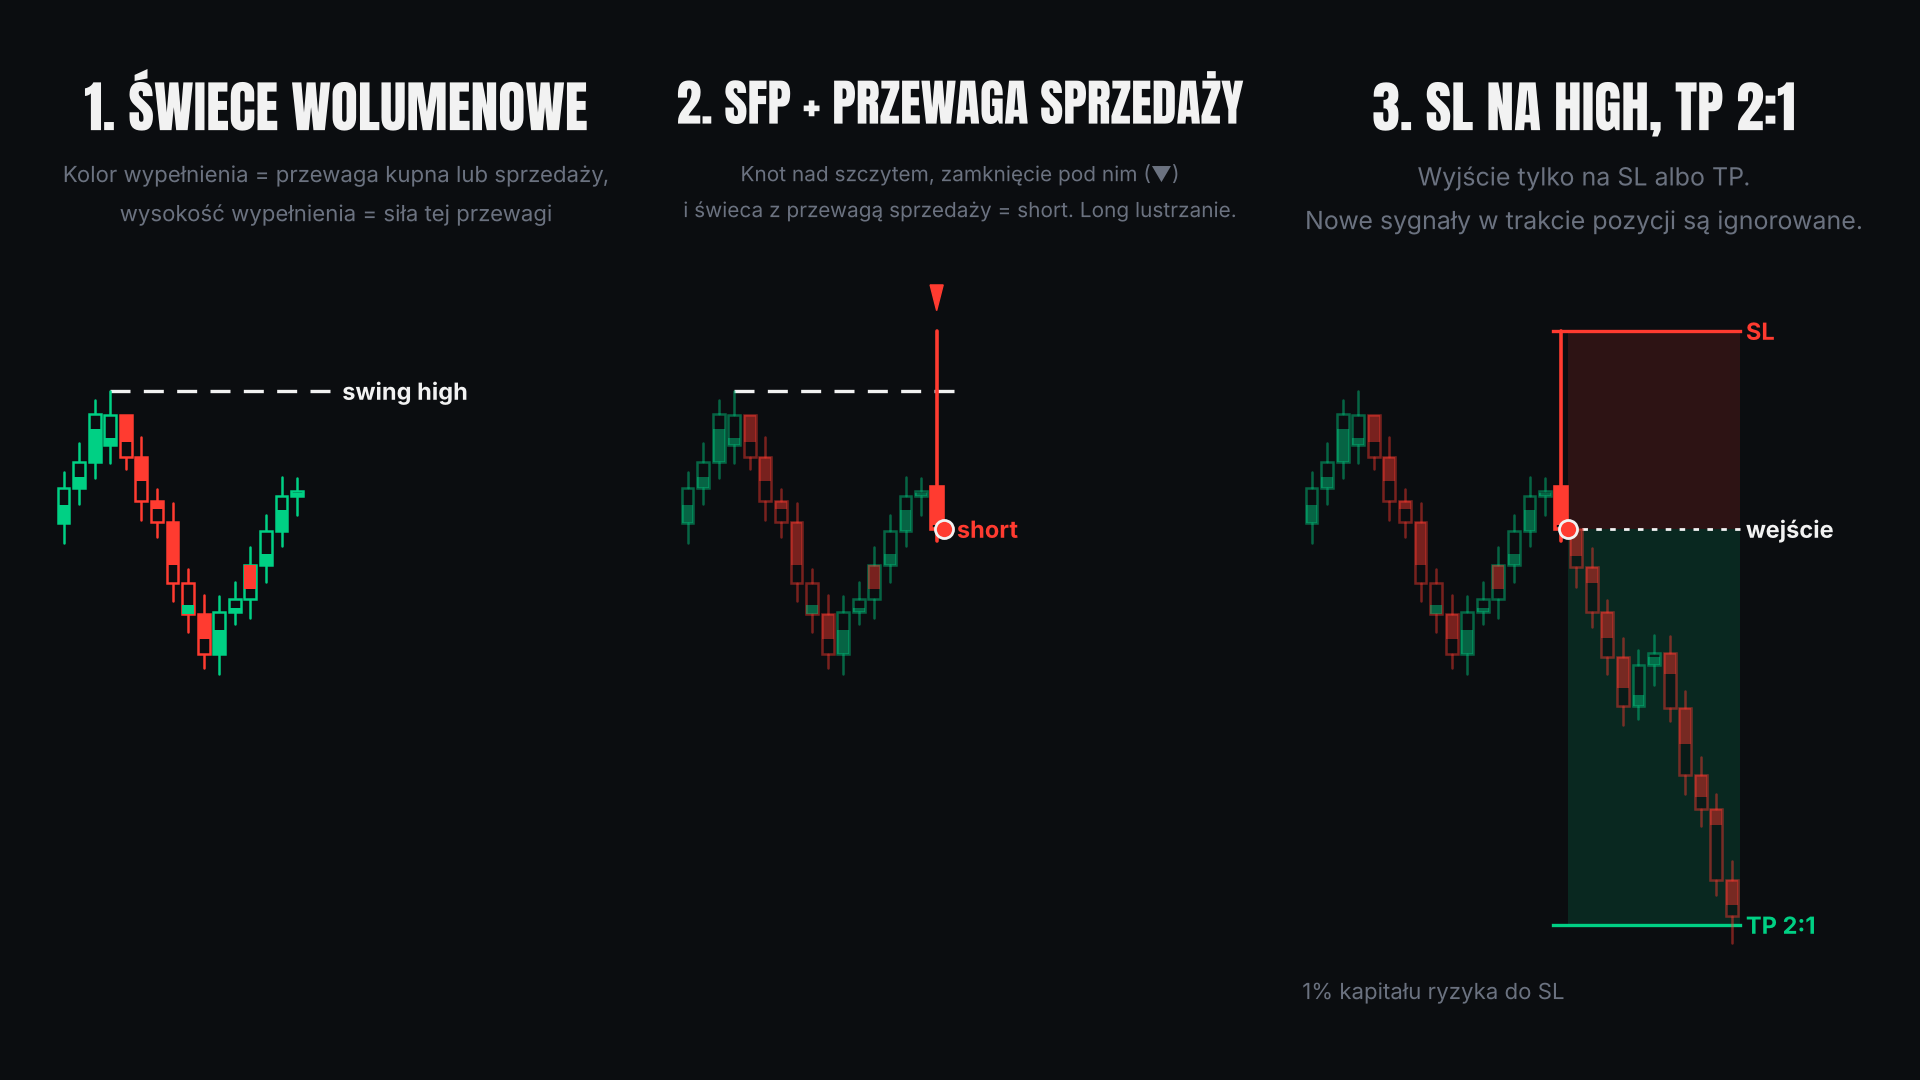
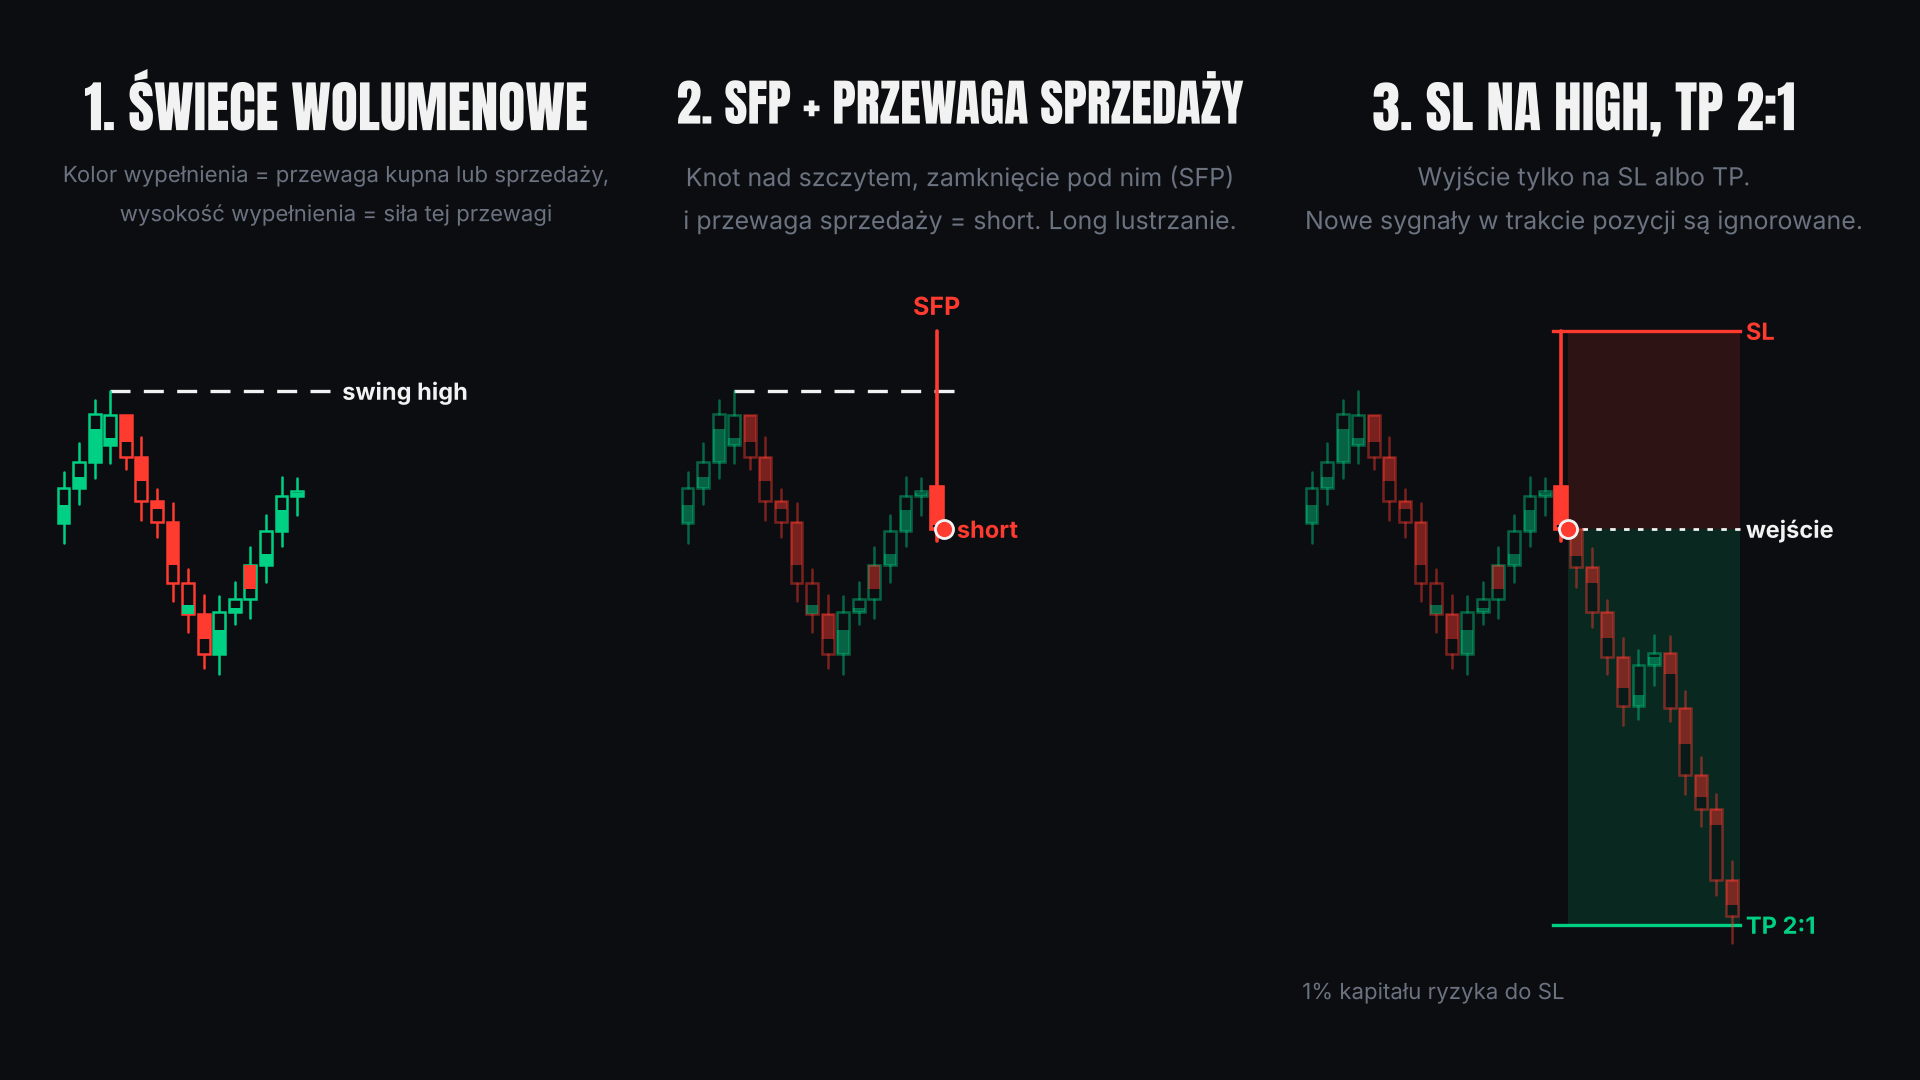
SFP+Volume: wejście na samej świecy SFP ze zgodną deltą, bez linii potwierdzenia
Reguła autora: SFP + zgodne wypełnienie świecy = wejście. Usunięte
wejście na ▼/▲ (potwierdzenie LuxAlgo) oraz linie potwierdzenia
i ▼/▲ z wykresów. Plansza i rozpiski dopasowane.

Claude-Session: https://claude.ai/code/session_01DmSsWAcwqi9Tfm7cmF7APZ

Changed region(s): [[0.3438, 0.1528, 0.6562, 0.2139], [0.4688, 0.275, 0.5, 0.3056]]

diff --git a/nagrania/TikTok/rozpiska_strategii.html b/nagrania/TikTok/rozpiska_strategii.html
@@ -69,7 +69,7 @@ footer{color:var(--mut);font-size:12.5px;border-top:1px solid var(--line);paddin
 <figure class="fig"><svg viewBox="0 0 570 272" role="img" aria-label="Przecięcie EMA 30 i 74 z SL na dołku" font-family="Inter, system-ui, sans-serif"><rect x="14" y="10" width="478" height="230" fill="#0F1216" stroke="#1A1E24"/><polyline points="19.1,49.0 29.3,51.2 39.4,54.4 49.6,57.4 59.8,62.2 69.9,67.6 80.1,72.5 90.3,79.1 100.4,86.0 110.6,92.2 120.8,100.0 131.0,107.9 141.1,115.0 151.3,123.5 161.5,132.1 171.6,139.8 181.8,148.2 192.0,153.1 202.1,157.2 212.3,159.5 222.5,159.2 232.7,158.6 242.8,156.8 253.0,152.9 263.2,149.3 273.3,144.7 283.5,138.5 293.7,132.7 303.9,126.4 314.0,118.5 324.2,111.3 334.4,104.2 344.5,97.9 354.7,94.2 364.9,90.8 375.0,89.6 385.2,88.5 395.4,89.2 405.6,89.8 415.7,92.1 425.9,94.0 436.1,97.4 446.2,100.3 456.4,104.6 466.6,108.2 476.7,113.2 486.9,117.5" fill="none" stroke="#7AA2F7" stroke-width="2" stroke-linejoin="round"/><polyline points="19.1,49.0 29.3,54.1 39.4,60.6 49.6,65.5 59.8,74.3 69.9,83.2 80.1,90.0 90.3,100.0 100.4,109.9 110.6,117.3 120.8,127.8 131.0,138.0 141.1,145.6 151.3,156.3 161.5,166.6 171.6,174.3 181.8,183.6 192.0,184.8 202.1,185.1 212.3,182.4 222.5,175.1 232.7,169.3 242.8,162.1 253.0,151.7 263.2,143.7 273.3,134.9 283.5,123.4 293.7,114.5 303.9,105.2 314.0,93.3 324.2,84.1 334.4,75.7 344.5,69.4 354.7,69.0 364.9,68.4 375.0,72.1 385.2,74.5 395.4,80.2 405.6,84.1 415.7,90.9 425.9,95.6 436.1,102.9 446.2,108.0 456.4,115.6 466.6,120.8 476.7,128.6 486.9,133.9" fill="none" stroke="#F5C451" stroke-width="2" stroke-linejoin="round"/><line x1="19.1" x2="19.1" y1="45.6" y2="54.5" stroke="#00D084" stroke-width="1.2"/><rect x="16.1" y="49.0" width="5.9" height="1.2" fill="#00D084"/><line x1="29.3" x2="29.3" y1="43.4" y2="70.6" stroke="#FF3B30" stroke-width="1.2"/><rect x="26.3" y="49.0" width="5.9" height="18.2" fill="#FF3B30"/><line x1="39.4" x2="39.4" y1="63.6" y2="81.7" stroke="#FF3B30" stroke-width="1.2"/><rect x="36.5" y="67.1" width="5.9" height="9.6" fill="#FF3B30"/><line x1="49.6" x2="49.6" y1="71.5" y2="82.4" stroke="#FF3B30" stroke-width="1.2"/><rect x="46.6" y="76.8" width="5.9" height="1.2" fill="#FF3B30"/><line x1="59.8" x2="59.8" y1="74.0" y2="99.9" stroke="#FF3B30" stroke-width="1.2"/><rect x="56.8" y="77.9" width="5.9" height="18.2" fill="#FF3B30"/><line x1="69.9" x2="69.9" y1="91.3" y2="111.2" stroke="#FF3B30" stroke-width="1.2"/><rect x="67.0" y="96.1" width="5.9" height="9.6" fill="#FF3B30"/><line x1="80.1" x2="80.1" y1="101.3" y2="110.2" stroke="#FF3B30" stroke-width="1.2"/><rect x="77.2" y="105.7" width="5.9" height="1.2" fill="#FF3B30"/><line x1="90.3" x2="90.3" y1="102.6" y2="130.3" stroke="#FF3B30" stroke-width="1.2"/><rect x="87.3" y="106.8" width="5.9" height="18.2" fill="#FF3B30"/><line x1="100.4" x2="100.4" y1="120.0" y2="138.7" stroke="#FF3B30" stroke-width="1.2"/><rect x="97.5" y="125.0" width="5.9" height="9.6" fill="#FF3B30"/><line x1="110.6" x2="110.6" y1="131.0" y2="140.0" stroke="#FF3B30" stroke-width="1.2"/><rect x="107.7" y="134.6" width="5.9" height="1.2" fill="#FF3B30"/><line x1="120.8" x2="120.8" y1="130.4" y2="159.1" stroke="#FF3B30" stroke-width="1.2"/><rect x="117.8" y="135.8" width="5.9" height="18.2" fill="#FF3B30"/><line x1="131.0" x2="131.0" y1="150.5" y2="167.0" stroke="#FF3B30" stroke-width="1.2"/><rect x="128.0" y="153.9" width="5.9" height="9.6" fill="#FF3B30"/><line x1="141.1" x2="141.1" y1="158.0" y2="170.2" stroke="#FF3B30" stroke-width="1.2"/><rect x="138.2" y="163.6" width="5.9" height="1.2" fill="#FF3B30"/><line x1="151.3" x2="151.3" y1="161.3" y2="186.5" stroke="#FF3B30" stroke-width="1.2"/><rect x="148.3" y="164.7" width="5.9" height="18.2" fill="#FF3B30"/><line x1="161.5" x2="161.5" y1="177.4" y2="197.3" stroke="#FF3B30" stroke-width="1.2"/><rect x="158.5" y="182.9" width="5.9" height="9.6" fill="#FF3B30"/><line x1="171.6" x2="171.6" y1="188.9" y2="198.4" stroke="#FF3B30" stroke-width="1.2"/><rect x="168.7" y="192.5" width="5.9" height="1.2" fill="#FF3B30"/><line x1="181.8" x2="181.8" y1="188.6" y2="210.3" stroke="#FF3B30" stroke-width="1.2"/><rect x="178.9" y="193.6" width="5.9" height="13.0" fill="#FF3B30"/><line x1="192.0" x2="192.0" y1="184.0" y2="212.2" stroke="#00D084" stroke-width="1.2"/><rect x="189.0" y="188.1" width="5.9" height="18.5" fill="#00D084"/><line x1="202.1" x2="202.1" y1="181.3" y2="191.5" stroke="#00D084" stroke-width="1.2"/><rect x="199.2" y="185.8" width="5.9" height="2.2" fill="#00D084"/><line x1="212.3" x2="212.3" y1="170.8" y2="191.0" stroke="#00D084" stroke-width="1.2"/><rect x="209.4" y="175.5" width="5.9" height="10.4" fill="#00D084"/><line x1="222.5" x2="222.5" y1="152.9" y2="179.7" stroke="#00D084" stroke-width="1.2"/><rect x="219.5" y="156.9" width="5.9" height="18.5" fill="#00D084"/><line x1="232.7" x2="232.7" y1="149.5" y2="160.9" stroke="#00D084" stroke-width="1.2"/><rect x="229.7" y="154.7" width="5.9" height="2.2" fill="#00D084"/><line x1="242.8" x2="242.8" y1="140.8" y2="160.0" stroke="#00D084" stroke-width="1.2"/><rect x="239.9" y="144.3" width="5.9" height="10.4" fill="#00D084"/><line x1="253.0" x2="253.0" y1="120.2" y2="147.6" stroke="#00D084" stroke-width="1.2"/><rect x="250.1" y="125.7" width="5.9" height="18.5" fill="#00D084"/><line x1="263.2" x2="263.2" y1="120.2" y2="131.2" stroke="#00D084" stroke-width="1.2"/><rect x="260.2" y="123.5" width="5.9" height="2.2" fill="#00D084"/><line x1="273.3" x2="273.3" y1="107.6" y2="127.3" stroke="#00D084" stroke-width="1.2"/><rect x="270.4" y="113.1" width="5.9" height="10.4" fill="#00D084"/><line x1="283.5" x2="283.5" y1="91.1" y2="117.6" stroke="#00D084" stroke-width="1.2"/><rect x="280.6" y="94.6" width="5.9" height="18.5" fill="#00D084"/><line x1="293.7" x2="293.7" y1="87.0" y2="99.6" stroke="#00D084" stroke-width="1.2"/><rect x="290.7" y="92.4" width="5.9" height="2.2" fill="#00D084"/><line x1="303.9" x2="303.9" y1="78.2" y2="95.9" stroke="#00D084" stroke-width="1.2"/><rect x="300.9" y="82.0" width="5.9" height="10.4" fill="#00D084"/><line x1="314.0" x2="314.0" y1="58.6" y2="87.5" stroke="#00D084" stroke-width="1.2"/><rect x="311.1" y="63.4" width="5.9" height="18.5" fill="#00D084"/><line x1="324.2" x2="324.2" y1="56.9" y2="66.9" stroke="#00D084" stroke-width="1.2"/><rect x="321.2" y="61.2" width="5.9" height="2.2" fill="#00D084"/><line x1="334.4" x2="334.4" y1="50.2" y2="66.2" stroke="#00D084" stroke-width="1.2"/><rect x="331.4" y="54.5" width="5.9" height="6.7" fill="#00D084"/><line x1="344.5" x2="344.5" y1="48.9" y2="59.0" stroke="#00D084" stroke-width="1.2"/><rect x="341.6" y="53.8" width="5.9" height="1.2" fill="#00D084"/><line x1="354.7" x2="354.7" y1="50.0" y2="71.7" stroke="#FF3B30" stroke-width="1.2"/><rect x="351.8" y="53.8" width="5.9" height="14.1" fill="#FF3B30"/><line x1="364.9" x2="364.9" y1="61.8" y2="73.3" stroke="#00D084" stroke-width="1.2"/><rect x="361.9" y="67.1" width="5.9" height="1.2" fill="#00D084"/><line x1="375.0" x2="375.0" y1="63.7" y2="84.6" stroke="#FF3B30" stroke-width="1.2"/><rect x="372.1" y="67.1" width="5.9" height="14.1" fill="#FF3B30"/><line x1="385.2" x2="385.2" y1="74.9" y2="86.6" stroke="#00D084" stroke-width="1.2"/><rect x="382.3" y="80.5" width="5.9" height="1.2" fill="#00D084"/><line x1="395.4" x2="395.4" y1="77.1" y2="98.6" stroke="#FF3B30" stroke-width="1.2"/><rect x="392.4" y="80.5" width="5.9" height="14.1" fill="#FF3B30"/><line x1="405.6" x2="405.6" y1="88.4" y2="98.9" stroke="#00D084" stroke-width="1.2"/><rect x="402.6" y="93.8" width="5.9" height="1.2" fill="#00D084"/><line x1="415.7" x2="415.7" y1="90.3" y2="113.1" stroke="#FF3B30" stroke-width="1.2"/><rect x="412.8" y="93.8" width="5.9" height="14.1" fill="#FF3B30"/><line x1="425.9" x2="425.9" y1="102.1" y2="111.3" stroke="#00D084" stroke-width="1.2"/><rect x="422.9" y="107.2" width="5.9" height="1.2" fill="#00D084"/><line x1="436.1" x2="436.1" y1="103.2" y2="126.8" stroke="#FF3B30" stroke-width="1.2"/><rect x="433.1" y="107.2" width="5.9" height="14.1" fill="#FF3B30"/><line x1="446.2" x2="446.2" y1="115.9" y2="124.9" stroke="#00D084" stroke-width="1.2"/><rect x="443.3" y="120.5" width="5.9" height="1.2" fill="#00D084"/><line x1="456.4" x2="456.4" y1="116.0" y2="139.4" stroke="#FF3B30" stroke-width="1.2"/><rect x="453.5" y="120.5" width="5.9" height="14.1" fill="#FF3B30"/><line x1="466.6" x2="466.6" y1="129.9" y2="139.4" stroke="#00D084" stroke-width="1.2"/><rect x="463.6" y="133.9" width="5.9" height="1.2" fill="#00D084"/><line x1="476.7" x2="476.7" y1="128.8" y2="151.6" stroke="#FF3B30" stroke-width="1.2"/><rect x="473.8" y="133.9" width="5.9" height="14.1" fill="#FF3B30"/><line x1="486.9" x2="486.9" y1="143.7" y2="153.5" stroke="#00D084" stroke-width="1.2"/><rect x="484.0" y="147.3" width="5.9" height="1.2" fill="#00D084"/><polygon points="252.99999999999997,150.63572675767864 246.99999999999997,161.43572675767865 259.0,161.43572675767865" fill="#00D084"/><text x="253.0" y="181.6" text-anchor="middle" font-size="11" fill="#00D084">long</text><polyline points="192.0,212.2 303.9,212.2" fill="none" stroke="#FF3B30" stroke-width="1.4" stroke-dasharray="4 3" stroke-linejoin="round"/><text x="310.0" y="216.2" text-anchor="start" font-size="11" fill="#FF3B30">SL: dołek ruchu</text><polygon points="425.89361702127655,99.06022857217368 419.89361702127655,88.26022857217369 431.89361702127655,88.26022857217369" fill="#FF3B30"/><text x="425.9" y="151.3" text-anchor="end" font-size="11" fill="#FF3B30">odwrócenie na short</text><rect x="22" y="254" width="10" height="3" fill="#F5C451"/><text x="36.0" y="259.0" text-anchor="start" font-size="10.5" fill="#7C838E">EMA 30</text><rect x="86.6" y="254" width="10" height="3" fill="#7AA2F7"/><text x="100.6" y="259.0" text-anchor="start" font-size="10.5" fill="#7C838E">EMA 74</text></svg><figcaption>Schemat poglądowy, nie dane rynkowe.</figcaption></figure></div></section><section class="strat" id="sfp">
 <header><span class="no">03/09</span><h2>SFP + Volume</h2><p class="src"><span class="miss">do uzupełnienia</span> · <code>SFP_Volume.py</code></p></header>
 <div class="grid"><div class="txt"><p class="none claimnone">Claim autora: brak w źródłach</p>
-<dl><dt>Wejście</dt><dd>Short: potwierdzony bearish SFP (▼, knot nad ostatnim swing high, zamknięcie pod nim) na świecy z przewagą sprzedaży w Volume Delta. Long odwrotnie.</dd><dt>Wyjście, SL, TP</dt><dd>SL na high świecy sygnałowej (dla longa low). TP 2:1 od zamknięcia, jak na filmie autora.</dd>
+<dl><dt>Wejście</dt><dd>Short: na samej świecy bearish SFP (knot nad ostatnim swing high, open i close pod nim), jeśli ta świeca ma przewagę sprzedaży w Volume Delta. Bez linii potwierdzenia LuxAlgo. Long odwrotnie.</dd><dt>Wyjście, SL, TP</dt><dd>SL na high świecy SFP (dla longa low). TP 2:1 od zamknięcia, jak na filmie autora.</dd>
 <dt>Interwał</dt><dd>Autor: 30 min. Test: tylko 30 min.</dd><dt>Pozycja</dt><dd>1% ryzyka</dd></dl>
 <h3>Nasze założenia</h3><ul><li>Wskaźnik Swing Failure Pattern [LuxAlgo], swings 5, bez filtra wolumenu z niższego interwału.</li><li>Delta: liczy się tylko znak, bez progu („more selling pressure”).</li><li>Wyjście tylko na SL lub TP, nowe sygnały w trakcie pozycji ignorowane.</li></ul>
 <p class="status"><span class="dot"></span>Kod gotowy (PR #8, #11) · wyniki: <span class="miss">brak w plikach projektu</span></p></div>

diff --git a/nagrania/TikTok/SFP_Volume/rozpiska.html b/nagrania/TikTok/SFP_Volume/rozpiska.html
@@ -46,7 +46,7 @@ footer{color:var(--mut);font-size:12.5px;border-top:1px solid var(--line);paddin
 <section class="strat" id="sfp">
 <header><span class="no">03/09</span><h2>SFP + Volume</h2><p class="src"><span class="miss">do uzupełnienia</span> · <code>SFP_Volume.py</code></p></header>
 <div class="grid"><div class="txt"><p class="none claimnone">Claim autora: brak w źródłach</p>
-<dl><dt>Wejście</dt><dd>Short: potwierdzony bearish SFP (▼, knot nad ostatnim swing high, zamknięcie pod nim) na świecy z przewagą sprzedaży w Volume Delta. Long odwrotnie.</dd><dt>Wyjście, SL, TP</dt><dd>SL na high świecy sygnałowej (dla longa low). TP 2:1 od zamknięcia, jak na filmie autora.</dd>
+<dl><dt>Wejście</dt><dd>Short: na samej świecy bearish SFP (knot nad ostatnim swing high, open i close pod nim), jeśli ta świeca ma przewagę sprzedaży w Volume Delta. Bez linii potwierdzenia LuxAlgo. Long odwrotnie.</dd><dt>Wyjście, SL, TP</dt><dd>SL na high świecy SFP (dla longa low). TP 2:1 od zamknięcia, jak na filmie autora.</dd>
 <dt>Interwał</dt><dd>Autor: 30 min. Test: tylko 30 min.</dd><dt>Pozycja</dt><dd>1% ryzyka</dd></dl>
 <h3>Nasze założenia</h3><ul><li>Wskaźnik Swing Failure Pattern [LuxAlgo], swings 5, bez filtra wolumenu z niższego interwału.</li><li>Delta: liczy się tylko znak, bez progu („more selling pressure”).</li><li>Wyjście tylko na SL lub TP, nowe sygnały w trakcie pozycji ignorowane.</li></ul>
 <p class="status"><span class="dot"></span>Kod gotowy (PR #8, #11) · wyniki: <span class="miss">brak w plikach projektu</span></p></div>

diff --git a/strategies/tiktok/SFP_Volume.py b/strategies/tiktok/SFP_Volume.py
@@ -33,6 +33,8 @@ def swing_failure_pattern(bars: pd.DataFrame, length: int = 5) -> pd.DataFrame:
     Wyjście: kolumny sfp_bear, sfp_bull (etykieta SFP),
     confirm_bear (▼), confirm_bull (▲), oppos_bear, oppos_bull
     (aktywna linia potwierdzenia na danej świecy).
+    Strategia używa tylko sfp_bear / sfp_bull — potwierdzenie
+    zostaje dla zgodności z oryginałem, ale nie wchodzi w reguły.
     """
     open_ = bars["open"].to_numpy(dtype=float)
     high = bars["high"].to_numpy(dtype=float)
@@ -147,12 +149,17 @@ def volume_delta(bars: pd.DataFrame) -> pd.Series:
 
 def generate_signals(bars: pd.DataFrame, rr_ratio: float = 2.0) -> pd.DataFrame:
     """
-    Short: ▼ (potwierdzony bearish SFP) na świecy z czerwoną
-    deltą (delta < 0). Long: ▲ na świecy z zieloną deltą.
+    Reguła autora: wejście na samej świecy SFP, jeśli wypełnienie
+    świecy (delta wolumenu) jest zgodne z kierunkiem — bez linii
+    potwierdzenia i bez ▼/▲ z LuxAlgo.
 
-    SL na high świecy sygnałowej (dla longa low), TP = 2 × ryzyko,
-    liczone od ceny zamknięcia świecy sygnałowej — jak na filmie
-    autora. Wielkość pozycji: 1% kapitału ryzykowany przy SL.
+    Short: etykieta SFP nad świecą (bearish SFP) i czerwone
+    wypełnienie (delta < 0). Long: SFP pod świecą (bullish SFP)
+    i zielone wypełnienie (delta > 0).
+
+    SL na high świecy SFP (dla longa low), TP = 2 × ryzyko,
+    liczone od ceny zamknięcia świecy SFP — jak na filmie autora.
+    Wielkość pozycji: 1% kapitału ryzykowany przy SL.
 
     Wyjście:
         buy, sell, stop_loss, take_profit.
@@ -172,8 +179,8 @@ def generate_signals(bars: pd.DataFrame, rr_ratio: float = 2.0) -> pd.DataFrame:
 
     # Zamknięcie na samym high / low daje ryzyko 0 — nie da się
     # policzyć wielkości pozycji przy 1% ryzyka, więc pomijamy.
-    buy = sfp["confirm_bull"] & (delta > 0) & (close > low)
-    sell = sfp["confirm_bear"] & (delta < 0) & (close < high)
+    buy = sfp["sfp_bull"] & (delta > 0) & (close > low)
+    sell = sfp["sfp_bear"] & (delta < 0) & (close < high)
 
     result = pd.DataFrame(index=bars.index)
     result["buy"] = buy
@@ -189,8 +196,9 @@ def generate_signals(bars: pd.DataFrame, rr_ratio: float = 2.0) -> pd.DataFrame:
 
 def indicators(bars: pd.DataFrame) -> dict:
     """
-    Etykiety SFP i ▼/▲ jak w TradingView, linie potwierdzenia
-    na cenie, delta wolumenu w panelu.
+    Etykiety SFP jak w TradingView, wypełnienie świec deltą
+    wolumenu, delta % w panelu. Bez linii potwierdzenia i ▼/▲ —
+    autor ich nie używa.
     """
     sfp = swing_failure_pattern(bars)
     delta = volume_delta(bars)
@@ -221,10 +229,6 @@ def indicators(bars: pd.DataFrame) -> dict:
     return {
         "trend": None,
         "candle_fill": fill,
-        "overlays": [
-            ("Potwierdzenie short", sfp["oppos_bear"], "#F23645"),
-            ("Potwierdzenie long", sfp["oppos_bull"], "#089981"),
-        ],
         "panel": {
             "title": "Volume Delta % (delta / wolumen)",
             "lines": [("Delta %", norm, "#7E57C2")],
@@ -234,7 +238,5 @@ def indicators(bars: pd.DataFrame) -> dict:
         "labels": [
             ("SFP short", sfp["sfp_bear"], "SFP", "#F23645", "above"),
             ("SFP long", sfp["sfp_bull"], "SFP", "#089981", "below"),
-            ("▼", sfp["confirm_bear"], "▼", "#F23645", "above"),
-            ("▲", sfp["confirm_bull"], "▲", "#089981", "below"),
         ],
     }

diff --git a/narzedzia/plansze_objasniajace/tiktok_plansze.py b/narzedzia/plansze_objasniajace/tiktok_plansze.py
@@ -407,11 +407,11 @@ def sfp():
     vcandles(s, SIG)
     s.level(SH, PIV, SIG + 1.5, FG, "swing high")
 
-    s = Seg(fig, 1, "2. SFP + PRZEWAGA SPRZEDAŻY", "Knot nad szczytem, zamknięcie pod nim (▼)\ni świeca z przewagą sprzedaży = short. Long lustrzanie.",
+    s = Seg(fig, 1, "2. SFP + PRZEWAGA SPRZEDAŻY", "Knot nad szczytem, zamknięcie pod nim (SFP)\ni przewaga sprzedaży = short. Long lustrzanie.",
             n, (lo, hi))
     vcandles(s, SIG + 1, (SIG,))
     s.level(SH, PIV, SIG + 1.5, FG)
-    s.tri(SIG, B[SIG][1] + s.dy * 0.2, RED, False)
+    s.tag(SIG, B[SIG][1], "SFP", RED, False, off=0.4)
     s.entry(SIG, entry, RED, "short")
 
     s = Seg(fig, 2, "3. SL NA HIGH, TP 2:1", "Wyjście tylko na SL albo TP.\nNowe sygnały w trakcie pozycji są ignorowane.",
